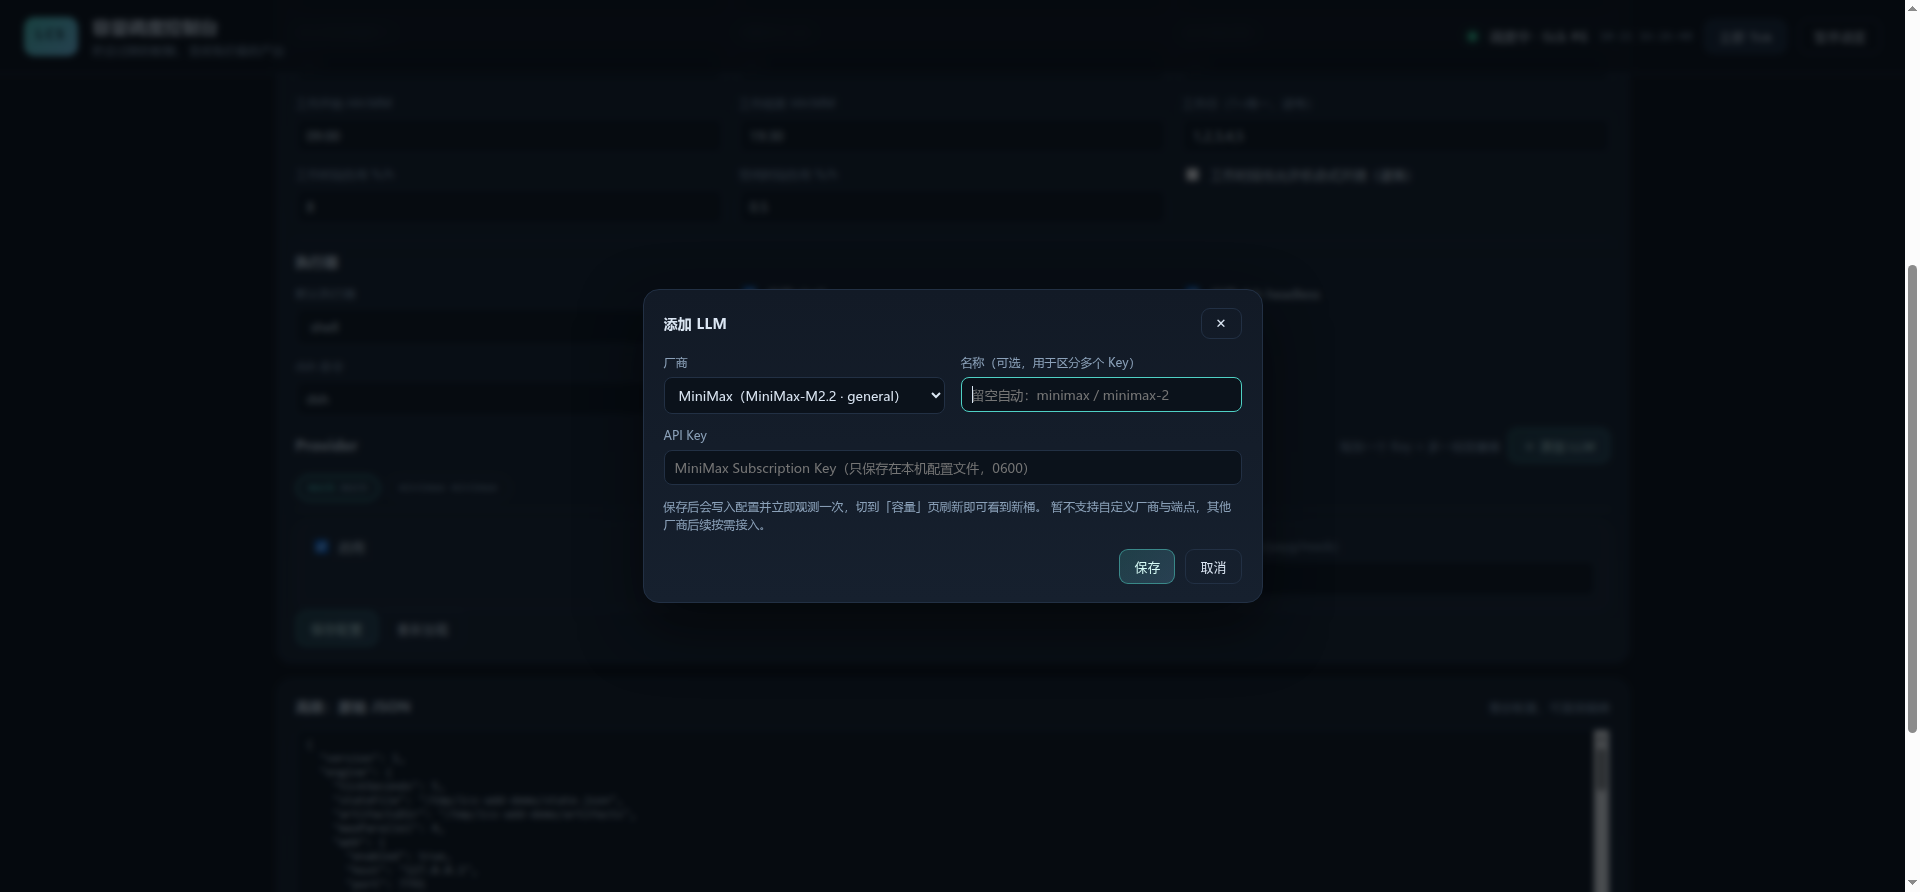
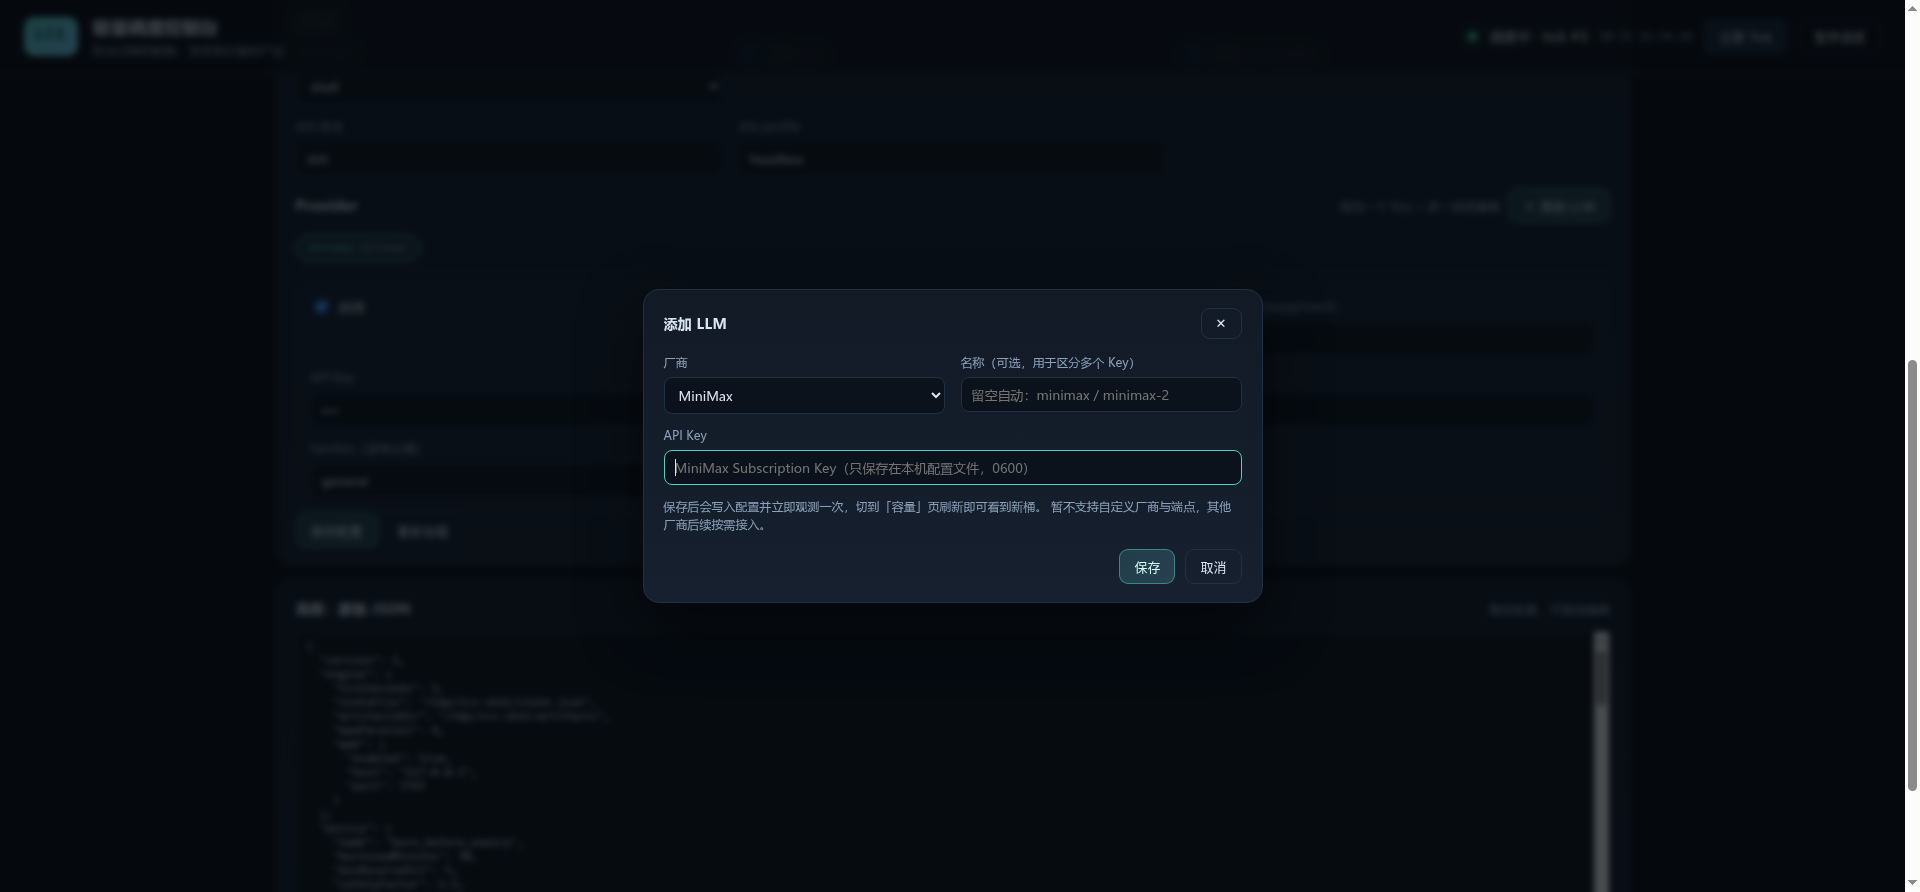
fix(web): 添加 LLM 只展示厂商，不再硬编码模型版本
- 厂商下拉从「MiniMax（MiniMax-M2.2 · general）」改为「MiniMax」
- provider 预设不再塞 models 条目；defaultConfig 的 models 默认留空
- 运行时 model 退化为 family（配额本就按 family 计），避免版本号过期
- 同步设计文档与截图；测试改为断言预设不写模型版本（39 passed）

diff --git a/mcp/src/provider-presets.ts b/mcp/src/provider-presets.ts
@@ -2,10 +2,12 @@
  * Provider 预设：Web「添加 LLM」只让用户选厂商 + 填 API Key，其余字段由预设生成。
  *
  * 这是「不支持自定义 provider」阶段的唯一扩展点：加一家厂商 = 加一个 preset + 一个 adapter。
- * 预设里写死端点/换算率等出厂参数，避免用户在 UI 里填错导致观测不可信。
+ * 预设里只写 provider 级的出厂参数（端点/families/换算率），不写模型版本：
+ * 配额是按「模型族」计的，具体模型由执行器或 models catalog 决定，避免把会过期的
+ * 版本号（如 MiniMax-M2.2）固化进配置。
  */
 
-import type { Config, ModelConfig, ProviderConfig } from "./config.js";
+import type { Config, ProviderConfig } from "./config.js";
 
 export interface VendorPreset {
   /** 厂商标识，前端 option value 与后端校验共用 */
@@ -16,8 +18,6 @@ export interface VendorPreset {
   defaultName: string;
   /** 该厂商默认观测的模型族 */
   families: string[];
-  /** 追加到 models catalog 的条目（provider 字段运行时填充） */
-  models: Omit<ModelConfig, "provider">[];
   buildOptions(apiKey: string): Record<string, unknown>;
 }
 
@@ -28,16 +28,6 @@ export const VENDOR_PRESETS: VendorPreset[] = [
     kind: "minimax",
     defaultName: "minimax",
     families: ["general"],
-    models: [
-      {
-        model: "MiniMax-M2.2",
-        family: "general",
-        context: 200000,
-        modalities: ["text"],
-        qualityTier: "best",
-        unitPricePer1kTokens: 0,
-      },
-    ],
     buildOptions: (apiKey) => ({
       apiKey,
       // 显式清空 env/file：用户在 UI 填的 Key 优先，避免被同名环境变量覆盖
@@ -68,7 +58,7 @@ export function findVendor(id: string): VendorPreset | undefined {
   return VENDOR_PRESETS.find((vendor) => vendor.id === id);
 }
 
-/** 纯函数：返回追加了 provider 与其 model catalog 的新配置（不落盘、不校验）。 */
+/** 纯函数：返回追加了 provider 的新配置（不落盘、不校验）。 */
 export function addProvider(config: Config, input: AddProviderInput): AddProviderResult {
   const vendor = findVendor(String(input.vendor ?? "").trim());
   if (!vendor) {
@@ -87,7 +77,6 @@ export function addProvider(config: Config, input: AddProviderInput): AddProvide
   };
   const next: Config = structuredClone(config);
   next.providers = [...next.providers, provider];
-  next.models = [...next.models, ...vendor.models.map((model) => ({ ...model, provider: name }))];
   return { config: next, provider };
 }
 

diff --git a/mcp/src/test/web.test.ts b/mcp/src/test/web.test.ts
@@ -200,7 +200,8 @@ test("添加 LLM：厂商预设追加 provider，保存后立即可见新桶", a
     assert.equal(added.data.config.providers.length, 2);
     assert.equal(added.data.config.providers[1].options.apiKey, "***");
     assert.equal(added.data.config.providers[1].options.apiKeyEnv, "");
-    assert.ok(added.data.config.models.some((m: { provider: string }) => m.provider === "minimax"));
+    // 预设不写模型版本：能力目录保持为空，运行时退化为 family
+    assert.equal(added.data.config.models.length, 0);
     assert.equal(added.data.buckets.length, 1);
     assert.equal(added.data.buckets[0].source, "api");
     assert.equal(added.data.buckets[0].remaining, 77);

diff --git a/mcp/src/config.ts b/mcp/src/config.ts
@@ -175,17 +175,9 @@ export function defaultConfig(): Config {
         },
       },
     ],
-    models: [
-      {
-        provider: "minimax",
-        model: "MiniMax-M2.2",
-        family: "general",
-        context: 200000,
-        modalities: ["text"],
-        qualityTier: "best",
-        unitPricePer1kTokens: 0,
-      },
-    ],
+    // 能力目录默认留空：配额按模型族计，具体模型由执行器决定。
+    // 需要按 context / qualityTier 精确匹配时再手填 models（见 docs/MCP-DESIGN.md）。
+    models: [],
     runners: {
       default: "shell",
       shell: { enabled: true },

diff --git a/mcp/src/web/public/index.html b/mcp/src/web/public/index.html
@@ -162,7 +162,7 @@
         <div class="form-grid modal-form">
           <label>厂商
             <select id="p-vendor" name="vendor">
-              <option value="minimax">MiniMax（MiniMax-M2.2 · general）</option>
+              <option value="minimax">MiniMax</option>
             </select>
           </label>
           <label>名称（可选，用于区分多个 Key）

diff --git a/docs/MCP-DESIGN.md b/docs/MCP-DESIGN.md
@@ -130,12 +130,12 @@ Provider（谁的额度）  ×  Runner（怎么跑）  = 两个正交轴
   "assignmentId": "asg_...",
   "taskId": "task_...",
   "provider": "minimax",
-  "model": "MiniMax-M2.2",
+  "model": "general",
   "runner": "dsh-headless",
   "est": 4.5,
   "route": {
     "LCS_PROVIDER": "minimax",
-    "LCS_MODEL": "MiniMax-M2.2",
+    "LCS_MODEL": "general",
     "LCS_ASSIGNMENT_ID": "asg_..."
   }
 }
@@ -143,7 +143,9 @@ Provider（谁的额度）  ×  Runner（怎么跑）  = 两个正交轴
 
 - shell runner：`route` 注入为环境变量；
 - dsh runner：`route` 注入环境变量 + 可选 `--profile` 映射（`runners.dsh.profiles: {minimax: "headless"}`）；
-- 任务里用 `$LCS_PROVIDER` / `$LCS_MODEL` 选择实际调用的后端，保证「控制器以为的」和「真实消耗的」是同一个桶。
+- 任务里用 `$LCS_PROVIDER` / `$LCS_MODEL` 选择实际调用的后端，保证「控制器以为的」和「真实消耗的」是同一个桶；
+- `model` 优先取 `models[]` 的能力匹配结果，没有配置时退化为 **family**（配额本来就是按 family 计的），
+  这样不会把会过期的模型版本号固化进配置或厂商预设。
 
 ---
 
@@ -154,8 +156,10 @@ Provider（谁的额度）  ×  Runner（怎么跑）  = 两个正交轴
 | **能力匹配** | 能不能干这活 | `models[]`：provider / model / family / context / modalities / qualityTier / price |
 | **容量可用** | 现在该不该烧 | `providers[]` 的容量桶 + reserve |
 
-`dispatch` 先按能力筛候选 `(provider, model)`，再对容量桶做准入。没有 catalog 条目时
-退化为 `provider.defaultModel || family`，保证零配置也能跑。
+`dispatch` 先按能力筛候选 `(provider, model)`，再对容量桶做准入。**`models` 默认为空**：
+没有 catalog 条目时退化为 `provider.defaultModel || family`，保证零配置也能跑。
+配额按 family 计，模型版本不该由调度器硬编码；需要按 context / qualityTier 精确匹配时
+再在 `models` 里手填（加一家厂商的预设也不会自动塞模型版本）。
 
 ---
 
@@ -224,8 +228,8 @@ GET  /api/samples?bucket=&limit=
 ```
 
 **Provider 预设**（`src/provider-presets.ts`）：`POST /api/providers` 只接受
-`vendor + apiKey (+可选 name)`，端点、`families`、换算率、能力目录条目均由预设生成，
-避免用户填错导致观测不可信。加一家厂商 = 加一个 preset + 一个 adapter；不支持自定义端点。
+`vendor + apiKey (+可选 name)`，端点、`families`、换算率由预设生成，
+避免用户填错导致观测不可信；预设**不带模型版本**。加一家厂商 = 加一个 preset + 一个 adapter；不支持自定义端点。
 同名自动加 `-2` 后缀；`apiKeyEnv`/`apiKeyFile` 显式清空，保证 UI 填的 Key 优先。
 保存后引擎重建 adapter 并立即 `observeNow()`，容量页无需等下一个 tick。
 
